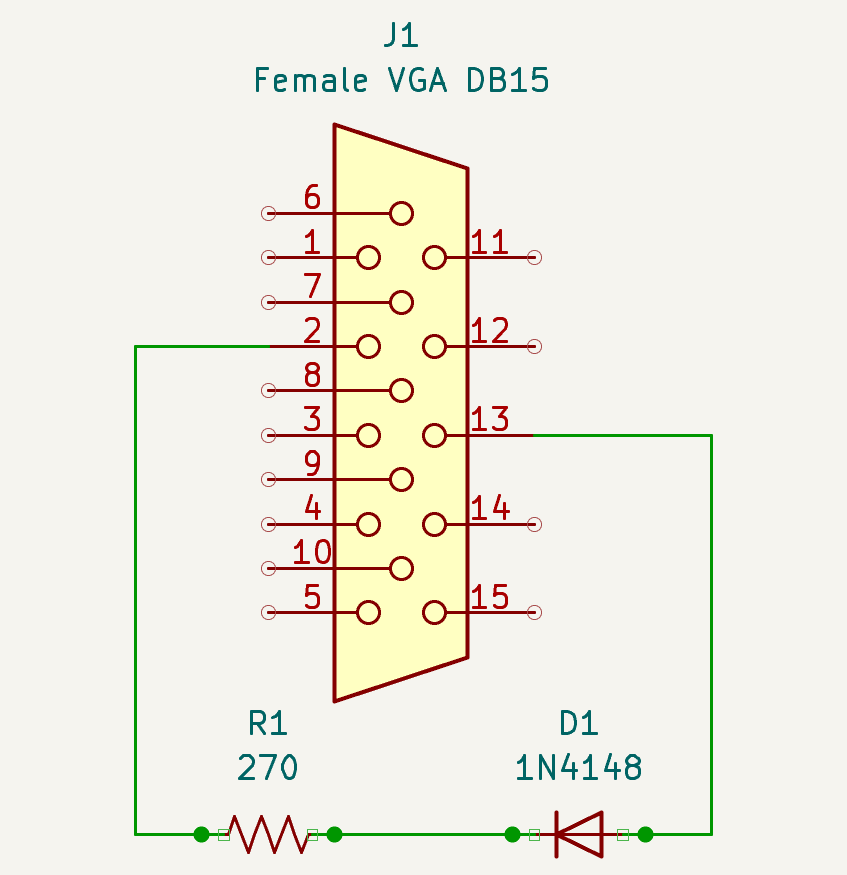
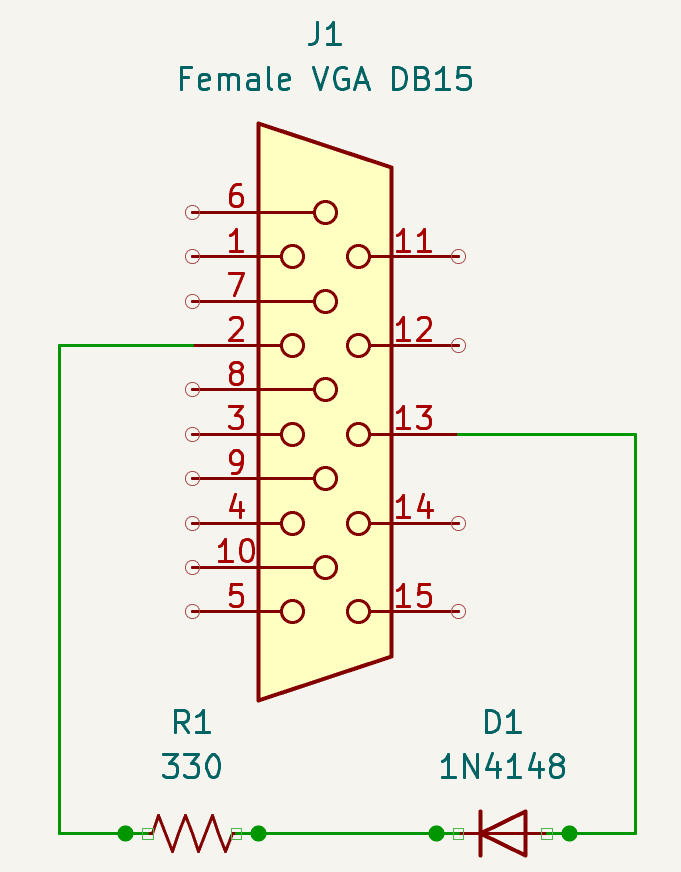
update resistor value information

diff --git a/docs/advanced/directvideo.md b/docs/advanced/directvideo.md
@@ -41,7 +41,7 @@ YPbPr - also known as Component Video - is available in *Direct Video* mode but 
 
 To use YPbPr in *Direct Video* mode, you'll need to enable `composite_sync` and `ypbpr` in your [mister.ini](Configuration-Files) file. 
 
-You'll also need to add a sync-on-green circuit on your VGA connection. Sync-on-green circuits can be very simple; you just need a diode (1N4148) and a 1k resistor.
+You'll also need to add a sync-on-green circuit on your VGA connection. Sync-on-green circuits can be very simple; you just need a diode (1N4148) and a 330ohm resistor (any values between 270ohm and 390ohm are advised, too high and the sync signal is too weak, too low and it's too strong).
 ![picture](img/sync-on-green-circuit.png)
 *Connection: from HSync -> anode of diode, cathode of diode -> resistor, resistor to Green signal.*
 
